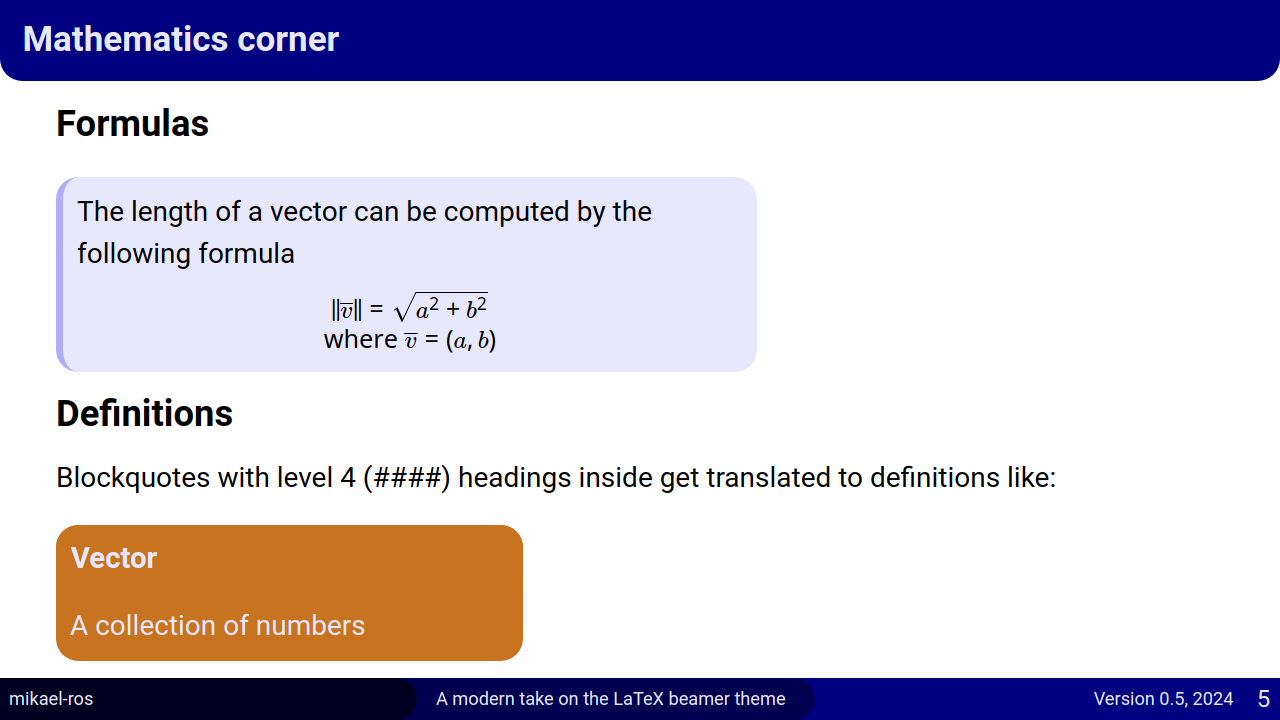
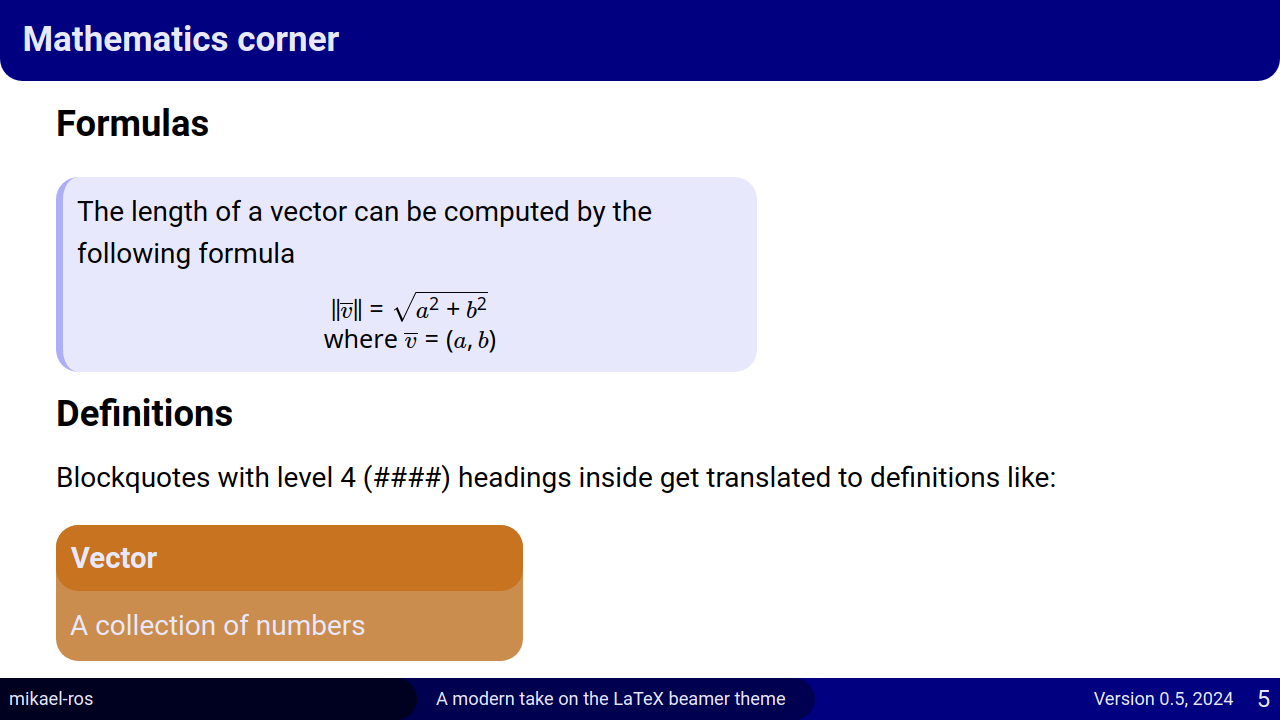
Fixed remaining issues

Changed region(s): [[0.0312, 0.7944, 0.4062, 0.9167]]

diff --git a/css/neobeam-beamer.css b/css/neobeam-beamer.css
@@ -349,7 +349,7 @@ blockquote:has(> h4) {
     padding: 0;
     border: none; /* Remove line */
     --block-fg-color: var(--highlight-color-one);
-    --block-bg-color: hsl(from var(--block-fg-color) h calc(s - .1) calc(l + .05));
+    --block-bg-color: hsl(from var(--block-fg-color) h calc(s - var(--saturation-decreaser) * var(--build-multiplier) * .1) calc(l + var(--brightness-multiplier) * var(--build-multiplier) * .05));
 
     color: var(--text-color-negative);
 }
@@ -492,7 +492,7 @@ img[alt*="right"]{
 }
 
 mark {
-    --hl-color: hsl(from var(--highlight-color-two) h calc(s + .5) calc(l + .3));
+    --hl-color: hsl(from var(--highlight-color-two) h calc(s + var(--saturation-multiplier) * var(--build-multiplier) * .15) calc(l + var(--brightness-multiplier) * var(--build-multiplier) * .1));
     padding: 0 calc(.25*var(--text-padding));
     border-radius: .25em;
 }

diff --git a/css/neobeam-csek.css b/css/neobeam-csek.css
@@ -348,7 +348,7 @@ blockquote:has(> h4) {
     padding: 0;
     border: none; /* Remove line */
     --block-fg-color: var(--highlight-color-one);
-    --block-bg-color: hsl(from var(--block-fg-color) h calc(s - .1) calc(l + .05));
+    --block-bg-color: hsl(from var(--block-fg-color) h calc(s - var(--saturation-decreaser) * var(--build-multiplier) * .1) calc(l + var(--brightness-multiplier) * var(--build-multiplier) * .05));
 
     color: var(--text-color-negative);
 }
@@ -491,7 +491,7 @@ img[alt*="right"]{
 }
 
 mark {
-    --hl-color: hsl(from var(--highlight-color-two) h calc(s + .5) calc(l + .3));
+    --hl-color: hsl(from var(--highlight-color-two) h calc(s + var(--saturation-multiplier) * var(--build-multiplier) * .15) calc(l + var(--brightness-multiplier) * var(--build-multiplier) * .1));
     padding: 0 calc(.25*var(--text-padding));
     border-radius: .25em;
 }

diff --git a/css/neobeam-lund.css b/css/neobeam-lund.css
@@ -349,7 +349,7 @@ blockquote:has(> h4) {
     padding: 0;
     border: none; /* Remove line */
     --block-fg-color: var(--highlight-color-one);
-    --block-bg-color: hsl(from var(--block-fg-color) h calc(s - .1) calc(l + .05));
+    --block-bg-color: hsl(from var(--block-fg-color) h calc(s - var(--saturation-decreaser) * var(--build-multiplier) * .1) calc(l + var(--brightness-multiplier) * var(--build-multiplier) * .05));
 
     color: var(--text-color-negative);
 }
@@ -492,7 +492,7 @@ img[alt*="right"]{
 }
 
 mark {
-    --hl-color: hsl(from var(--highlight-color-two) h calc(s + .5) calc(l + .3));
+    --hl-color: hsl(from var(--highlight-color-two) h calc(s + var(--saturation-multiplier) * var(--build-multiplier) * .15) calc(l + var(--brightness-multiplier) * var(--build-multiplier) * .1));
     padding: 0 calc(.25*var(--text-padding));
     border-radius: .25em;
 }

diff --git a/css/neobeam.css b/css/neobeam.css
@@ -350,7 +350,7 @@ blockquote:has(> h4) {
     padding: 0;
     border: none; /* Remove line */
     --block-fg-color: var(--highlight-color-one);
-    --block-bg-color: hsl(from var(--block-fg-color) h calc(s - .1) calc(l + .05));
+    --block-bg-color: hsl(from var(--block-fg-color) h calc(s - var(--saturation-decreaser) * var(--build-multiplier) * .1) calc(l + var(--brightness-multiplier) * var(--build-multiplier) * .05));
 
     color: var(--text-color-negative);
 }
@@ -493,7 +493,7 @@ img[alt*="right"]{
 }
 
 mark {
-    --hl-color: hsl(from var(--highlight-color-two) h calc(s + .5) calc(l + .3));
+    --hl-color: hsl(from var(--highlight-color-two) h calc(s + var(--saturation-multiplier) * var(--build-multiplier) * .15) calc(l + var(--brightness-multiplier) * var(--build-multiplier) * .1));
     padding: 0 calc(.25*var(--text-padding));
     border-radius: .25em;
 }

diff --git a/css/neobeam-dsek.css b/css/neobeam-dsek.css
@@ -492,7 +492,7 @@ img[alt*="right"]{
 }
 
 mark {
-    --hl-color: hsl(from var(--highlight-color-two) h calc(s + .5) calc(l + .3));
+    --hl-color: hsl(from var(--highlight-color-two) h calc(s + var(--saturation-multiplier) * var(--build-multiplier) * .15) calc(l + var(--brightness-multiplier) * var(--build-multiplier) * .1));
     padding: 0 calc(.25*var(--text-padding));
     border-radius: .25em;
 }

diff --git a/readme.md b/readme.md
@@ -87,6 +87,9 @@ Theme | Based on
 > [!TIP]
 > This font by default uses the fonts Roboto, Roboto Mono (for code) and Noto Sans Math (for math). These are imported in the CSS file, but you can aquire them yourself too, or change them out. In the LTH C-sektionen and D-sektionen themes, Roboto is switched out for Helvetica.
 
+> [!WARNING]
+> For reasons beyond my comprehension, it is necessary to use different notation for ``hsl`` in CSS in the Marp VS code preview as compared to the build version. To mitigate this I have added a ``build-multiplier`` variable to the CSS files. Set this to ``1`` when working in VS code, and ``100`` when exporting (or working in other ways).
+
 #### 📥 In an existing presentation
 1. Download or copy the neobeam.css (or specific theme) file into your project OR use the direct link.
 2. Add it to your VSCode settings by editing your ``.vscode/settings.json`` file and appending:

diff --git a/example/example.md b/example/example.md
@@ -1,6 +1,6 @@
 ---
 marp: true
-theme: neobeam
+theme: neobeam-lund
 paginate: true
 math: katex
 footer: '**mikael-ros**
